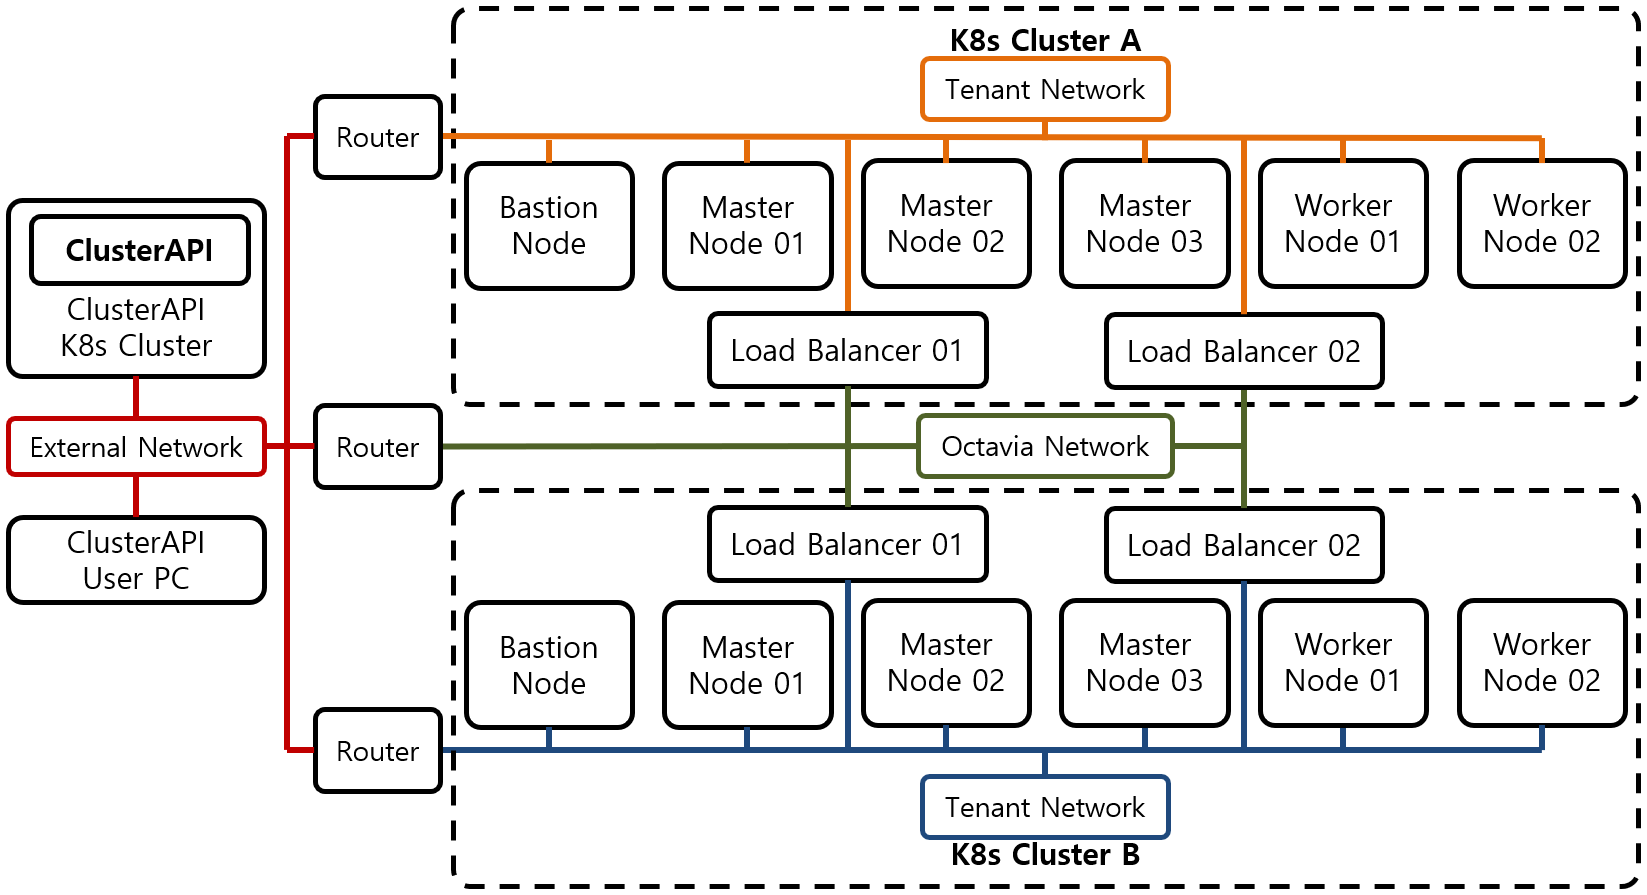
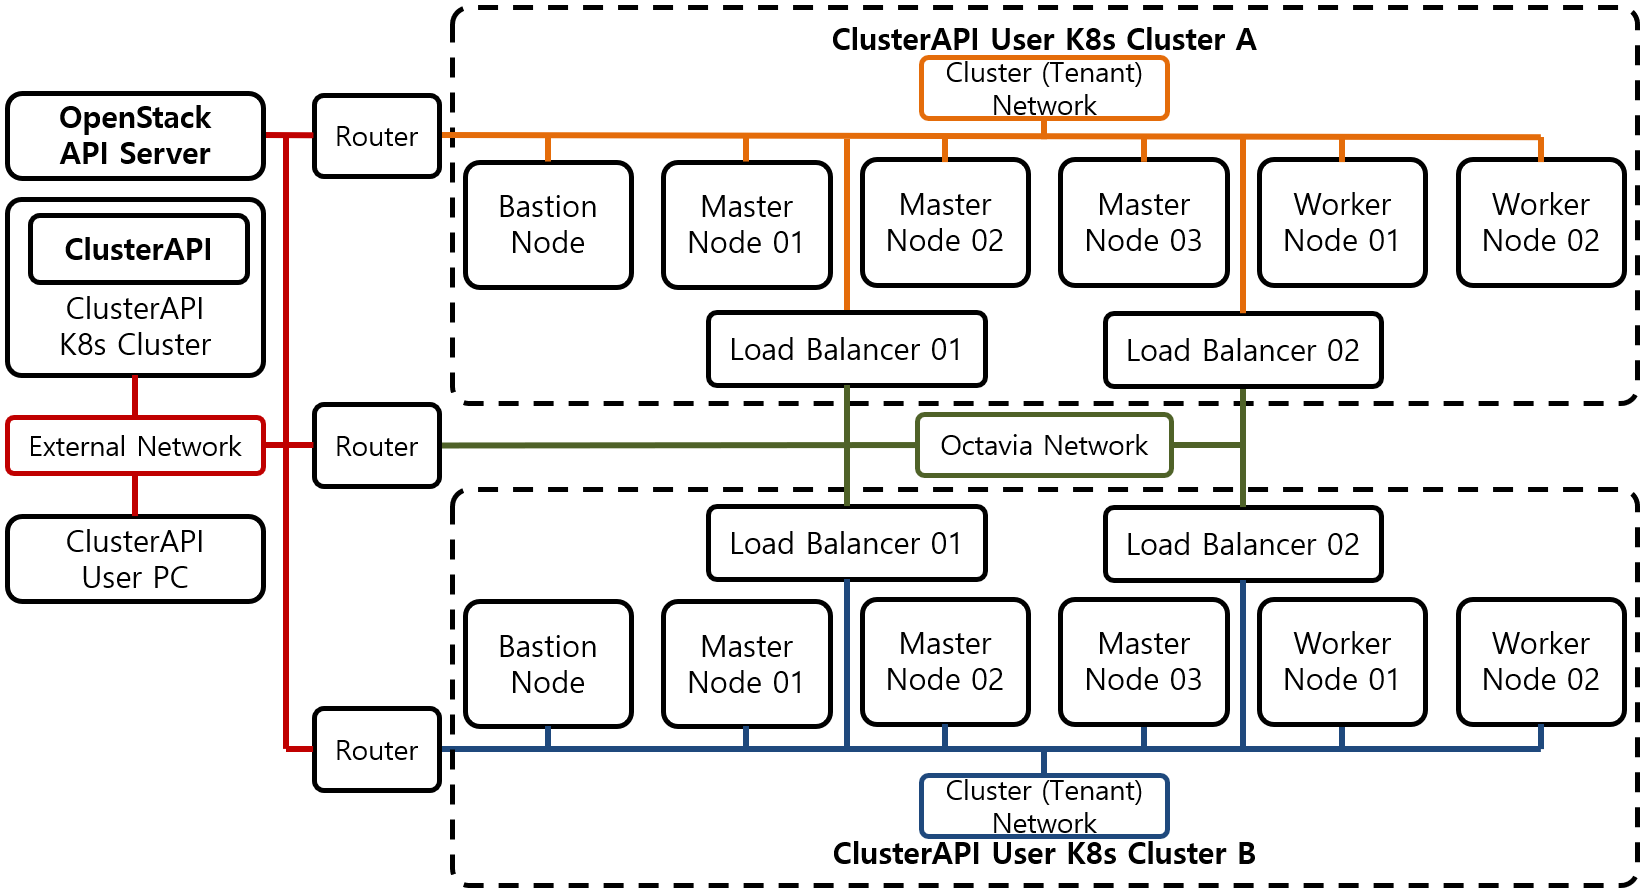
Update

diff --git a/_docs/theory_analysis/Kubernetes_ClusterAPI_Architecture_OpenStack.md b/_docs/theory_analysis/Kubernetes_ClusterAPI_Architecture_OpenStack.md
@@ -7,11 +7,19 @@ comment: true
 adsense: true
 ---
 
-OpenStack 위에서 동작하는 Kubernetes Cluster API의 Architecture를 분석한다.
+OpenStack 환경에서 동작하는 Kubernetes Cluster API의 Architecture를 분석한다.
 
 ### 1. Kubernetes ClusterAPI Architecture on OpenStack
 
 ![[그림 1] Kubernetes ClusterAPI Architecture on OpenStack]({{site.baseurl}}/images/theory_analysis/Kubernetes_ClusterAPI_Architecture_OpenStack/Kubernetes_ClusterAPI_Architecture_OpenStack.PNG)
+
+[그림 1]은 OpenStack 환경에서 Kubernetes ClusterAPI의 Architecture를 나타내고 있다. ClusterAPI User는 ClusterAPI가 구동되는 Kubernetes Cluster에게 Cluster Object를 생성하면, ClusterAPI는 OpenStack API Server를 통해서 Cluster Object의 내용(Spec)에 맞게 Kubernetes Cluster를 생성한다. 
+
+[그림 1]에는 ClusterAPI를 통해서 생성한 2개의 ClusterAPI User Kubernetes Cluster를 나타내고 있다. 각 User Kuberentes Cluster는 Master Node (Control Plain), Worker Node, Load Balancer, Bastion Node 4가지의 구성요소로 이루어져 있다. Master Node는 Kuberentes Cluster에서 Kubernetes API Server, Kubernetes Controller Manager를 동작시키는 Master 역활을 수행하는 Node를 의미하고, Worker Node는 Kubernetes Cluster에서 App Container가 동작하는 Node를 의미한다.
+
+Load Balancer는 다수의 Master Node들을 묶어서 하나의 Master Node VIP(Endpoint)를 제공하는 역활을 수행한다. 여기서 Load Balancer가 생성하는 Master Node의 VIP는 **External Network의 VIP**이다. 따라서 External Network에 존재하는 Cluster User의 kubectl Client는 Load Balancer를 통해서 생성된 Master Node VIP를 통해서 Kubernetes API Server와 통신한다. User Cluster의 Worker Node들도 Load Balaner가 생성하는 External Network의 Master Node VIP를 이용하여 Master Node와 통신한다. 따라서 각 Cluster Network에서 안에서도 External Network의 Master Node VIP로 접근할 수 있도록 Network 설정이 되어있어야 한다.
+
+ClusterAPI는 User Cluster의 각 Node들에게 Kubernetes Cluster 구성에 필요한 최소한의 Port만 열려있도록 Security Group을 설정한다. 따라서 기본적으로는 SSH를 통해서 User Cluster의 각 Node에게 접근할 수 없다. Bastion Node는 Cluster User가 User Cluster의 Node들에게 SSH로 접근하도록 도와주는 통로 역활을 수행한다. Cluster User는 Bastion Node로 SSH로 접근한 다음, Bastion Node에서 다시 SSH를 통해서 User Cluster의 Node로 접근할 수 있다.
 
 ### 2. 참조
 
